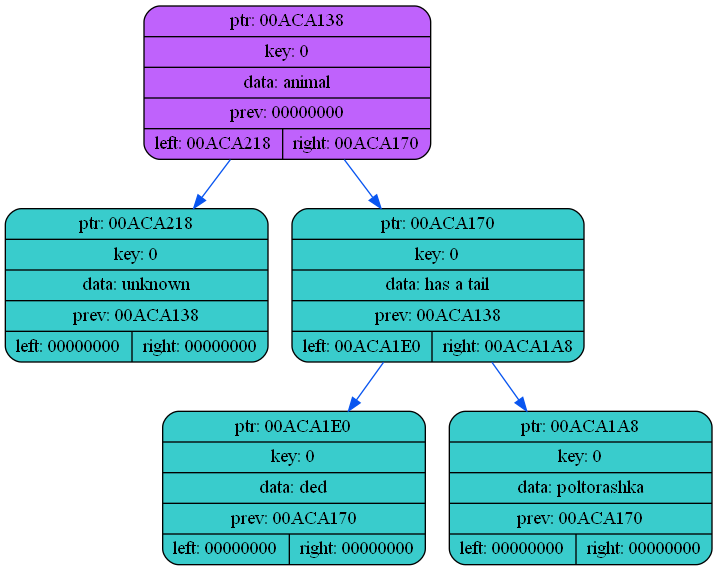
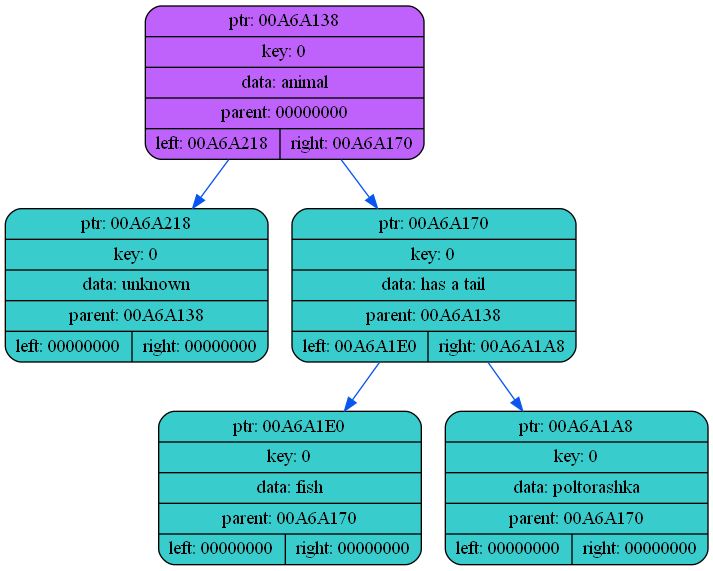
add new label with question
CRINGE CODESTYLE!!!

diff --git a/list_dump.html b/list_dump.html
@@ -1,13 +1,16 @@
 <pre>
 MEMORY PRINT
-{has a tail{ded}{poltorashka}}
+{has a tail{fish}{poltorashka}}
 <img src=dump\dump1.png>
 MEMORY PRINT
-{animal{unknown}{has a tail{ded}{poltorashka}}}
+{animal{unknown}{has a tail{fish}{poltorashka}}}
 <img src=dump\dump2.png>
 MEMORY PRINT
-{animal{unknown}{has a tail{ded}{poltorashka}}}
+{animal{unknown}{has a tail{fish}{poltorashka}}}
 <img src=dump\dump3.png>
 MEMORY PRINT
-{root}
+{animal{unknown}{has a tail{fish}{poltorashka}}}
 <img src=dump\dump4.png>
+MEMORY PRINT
+{has a tail{fish}{big{poltorashka}{leopard}}}
+<img src=dump\dump5.png>

diff --git a/src/bin_tree.cpp b/src/bin_tree.cpp
@@ -17,7 +17,16 @@ node_t* new_node(int key, node_t* left, node_t* right, char* data)
     return node;
 }
 
-int find_node(node_t* node)
+int fix_parents(node_t* node)
+{
+    assert(node);
+    if (node -> right) {(node -> right) -> parent = node;}
+    if (node -> left)  {(node -> left) ->  parent = node;}
+
+    return 0;
+}
+
+int find_node(node_t* node, FILE* html_stream)
 {
     fprintf(stdout, "%s?\n", node -> data);
 
@@ -33,16 +42,58 @@ int find_node(node_t* node)
         else {printf("Unknown symbol: %c(%d)\nOnly Y and N are accepted as answers\n", ans, ans);}
     }
 
-    printf("temp: %p", *temp);
+    printf("temp: %p\n", *temp);
 
     if (*temp)
     {
         if ((*temp) -> left == NULL && ((*temp) -> right) == NULL)
         {
             printf("It is %s, right?\n", (*temp) -> data);
+            while (true)
+            {
+                fscanf(stdin, "%c", &ans);
+                clean_input_buff();
+                if (!(ans == 'Y' || ans == 'N'))
+                    printf("Unknown symbol: %c(%d)\nOnly Y and N are accepted as answers\n", ans, ans);
+                else
+                    break;
+            }
+            if (ans == 'N')
+            {
+                //change_and_add_node()
+                printf("What was it?\n");
+                char new_label[32] = {};
+                scanf("%s", new_label);
+
+                printf("what is the difference between %s and %s?(Enter the question)\n"
+                       "(True for %s, false for %s)\n",
+                       new_label, (*temp) -> data, new_label, (*temp) -> data);
+
+                char question[32] = {};
+                scanf("%s", question);
+
+                node_t* question_node = new_node(0, NULL, NULL, question);
+                node_t* label_node    = new_node(0, NULL, NULL, new_label);
+
+                question_node -> right = label_node;
+                question_node -> left  = *temp;
+
+                node_t* parent = (*temp) -> parent;
+
+                *temp = question_node;
+
+                fix_parents(parent);
+                fix_parents(question_node);
+
+                tree_dump(node, html_stream, node);
+            }
             return 0;
         }
-        find_node(*temp);
+        else
+        {
+            find_node(*temp, html_stream);
+            return 0;
+        }
     }
     else
     {
@@ -50,18 +101,18 @@ int find_node(node_t* node)
                "What is it?\n");
         *temp = new_node(0, NULL, NULL, "");
         if (!*temp) { fprintf(stderr, "ERROR: ADDITION FIALED on node [%p]\n", node);  return -1;}
-        (*temp) -> prev = node;
+        (*temp) -> parent = node;
     }
 
     return -1;
 }
 
-int read_tree(node_t* node, FILE* stream, FILE* html_stream)
+int read_tree(node_t** node, FILE* stream, FILE* html_stream)
 {
     assert(stream);
     char ch = 0;
     fscanf(stream, " %c", &ch);
-    printf("ch: %c\nnode : %p\n", ch, node);
+    printf("ch: %c\nnode : %p\n", ch, *node);
     switch (ch)
     {
         case '{':
@@ -69,7 +120,7 @@ int read_tree(node_t* node, FILE* stream, FILE* html_stream)
             char label[32] = {};
             fscanf(stream, " \"%[^\"]\"", label);
             printf("%s\n", label);
-            node = new_node(0, NULL, NULL, label);
+            *node = new_node(0, NULL, NULL, label);
             read_tree(node, stream, html_stream);
             break;
         }
@@ -82,10 +133,10 @@ int read_tree(node_t* node, FILE* stream, FILE* html_stream)
             char label[32] = {};
             fscanf(stream, " \"%[^\"]\"", label);
             printf("%s\n", label);
-            node -> right = new_node(0, NULL, NULL, label);
-            (node -> right) -> prev = node;
+            (*node) -> right = new_node(0, NULL, NULL, label);
+            ((*node) -> right) -> parent = *node;
 
-            read_tree(node -> right, stream, html_stream);
+            read_tree(&((*node) -> right), stream, html_stream);
         }
         case 'n':
         {
@@ -96,10 +147,10 @@ int read_tree(node_t* node, FILE* stream, FILE* html_stream)
             char label[32] = {};
             fscanf(stream, " \"%[^\"]\"", label);
             printf("%s\n", label);
-            node -> left = new_node(0, NULL, NULL, label);
-            (node -> left) -> prev = node;
+            (*node) -> left = new_node(0, NULL, NULL, label);
+            ((*node) -> left) -> parent = *node;
 
-            read_tree(node -> left, stream, html_stream);
+            read_tree(&((*node) -> left), stream, html_stream);
             break;
         }
         case '}': {return 0;}
@@ -107,8 +158,8 @@ int read_tree(node_t* node, FILE* stream, FILE* html_stream)
     }
 
 
-    tree_dump(node, html_stream, node);
-    print_tree(node, stdout);
+    tree_dump(*node, html_stream, *node);
+    print_tree(*node, stdout);
     return 0;
 }
 

diff --git a/src/tree_dump.cpp b/src/tree_dump.cpp
@@ -82,13 +82,13 @@ int write_node_info(node_t* node, FILE* fp, node_t* curr)
 
     if (node == curr)
     {
-        fprintf(fp, "    node%p[shape=record,style=\"rounded,filled\",fillcolor=\"#BF62FC\",label=\"{ ptr: %p | key: %d | data: %s| prev: %p| { left: %p | right: %p }}\"];\n",
-                node, node, node -> key, node -> data, node -> prev, node -> left, node -> right);
+        fprintf(fp, "    node%p[shape=record,style=\"rounded,filled\",fillcolor=\"#BF62FC\",label=\"{ ptr: %p | key: %d | data: %s| parent: %p| { left: %p | right: %p }}\"];\n",
+                node, node, node -> key, node -> data, node -> parent, node -> left, node -> right);
     }
     else
     {
-        fprintf(fp, "    node%p[shape=record,style=\"rounded,filled\",fillcolor=\"#39CCCC\",label=\"{ ptr: %p | key: %d | data: %s| prev: %p | { left: %p | right: %p }}\"];\n",
-                node, node, node -> key, node -> data, node -> prev, node -> left, node -> right);
+        fprintf(fp, "    node%p[shape=record,style=\"rounded,filled\",fillcolor=\"#39CCCC\",label=\"{ ptr: %p | key: %d | data: %s| parent: %p | { left: %p | right: %p }}\"];\n",
+                node, node, node -> key, node -> data, node -> parent, node -> left, node -> right);
     }
 
     if (node -> left)

diff --git a/headers/bin_tree.h b/headers/bin_tree.h
@@ -12,14 +12,15 @@ struct node_t {
     char data[32];
     node_t* left;
     node_t* right;
-    node_t* prev;
+    node_t* parent;
 };
 
 
-node_t* new_node(int key, node_t* left, node_t* right, char* data);
-int find_node(node_t* node);
+node_t* new_node(int key, node_t* left, node_t* right, char* data);\
+int fix_parents(node_t* node);
+int find_node(node_t* node, FILE* html_stream);
 
-int read_tree(node_t* node, FILE* stream, FILE* html_stream);
+int read_tree(node_t** node, FILE* stream, FILE* html_stream);
 int print_tree(node_t* node, FILE* stream);
 
 int tree_dtor(node_t* node);

diff --git a/src/main.cpp b/src/main.cpp
@@ -11,10 +11,11 @@ int main()
     if (!root) {return -1;}
 
     FILE* fp = fopen("data\\tree1.txt", "r");
-    read_tree(root, fp, html_stream);
+    read_tree(&root, fp, html_stream);
 
     tree_dump(root, html_stream, root);
 
+    find_node(root, html_stream);
     tree_dtor(root);
 
     return 0;
